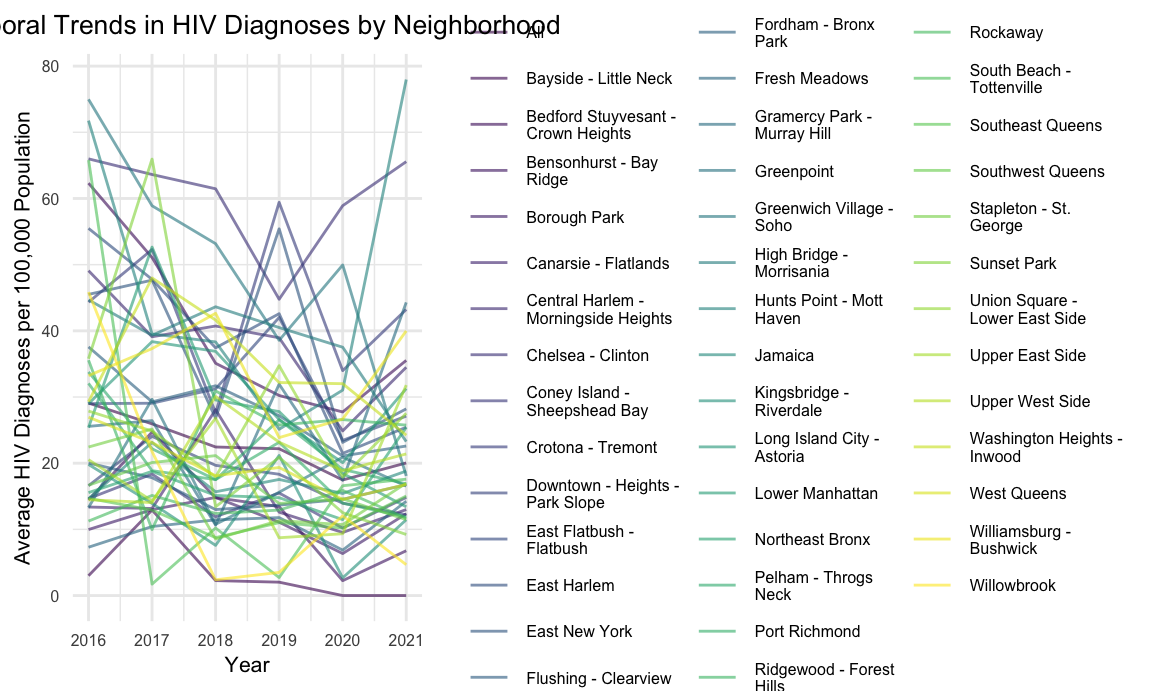
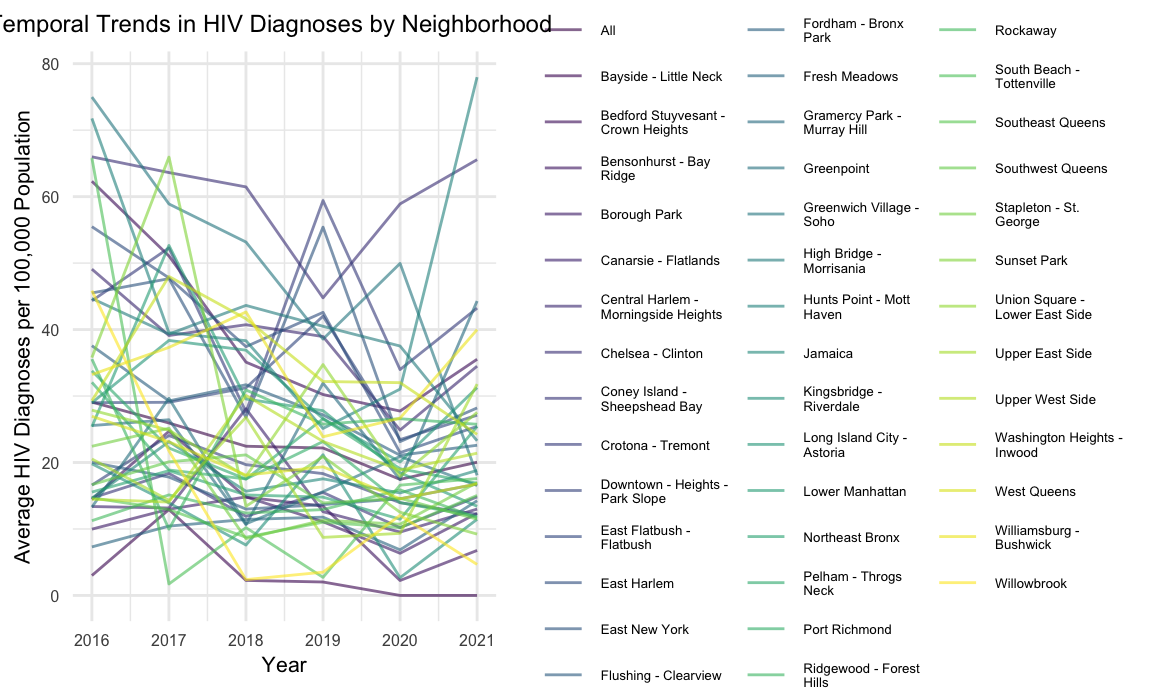
pic ad

diff --git a/Data_analysis.html b/Data_analysis.html
@@ -406,9 +406,9 @@ ggplot(hiv_trends, aes(x = YEAR, y = avg_hiv_rate, group = Neighborhood, color =
   theme_minimal() +
   theme(
     legend.position = &quot;right&quot;,
-    legend.text = element_text(size = 6), 
-    legend.title = element_text(size = 8),
-    plot.title = element_text(hjust = 0.5, size = 10), 
+    legend.text = element_text(size = 5), 
+    legend.title = element_text(size = 7),
+    plot.title = element_text(hjust = 0.6, size = 9), 
     axis.text = element_text(size = 6),  
     axis.title = element_text(size = 8)  
   )</code></pre>
@@ -475,9 +475,9 @@ ggplot(hiv_trends, aes(x = YEAR, y = avg_aids_rate, group = Neighborhood, color 
   theme_minimal() +
   theme(
     legend.position = &quot;right&quot;,
-    legend.text = element_text(size = 6), 
-    legend.title = element_text(size = 8),
-    plot.title = element_text(hjust = 0.5, size = 10), 
+    legend.text = element_text(size = 5), 
+    legend.title = element_text(size = 7),
+    plot.title = element_text(hjust = 0.6, size = 9), 
     axis.text = element_text(size = 6),  
     axis.title = element_text(size = 8)  
   )</code></pre>
